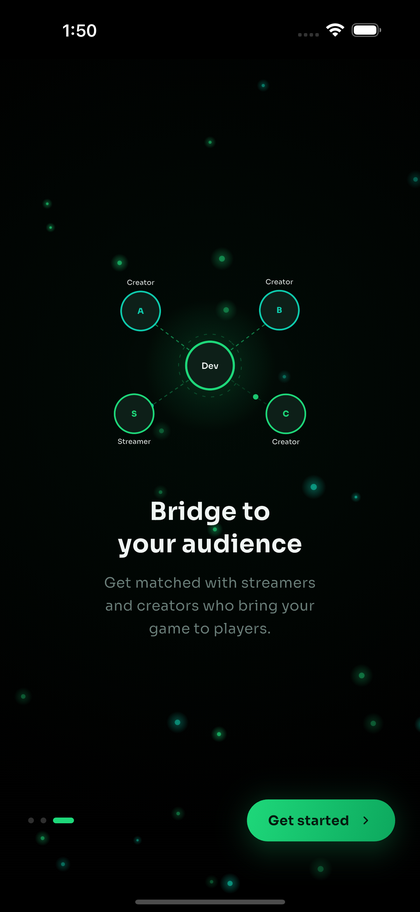
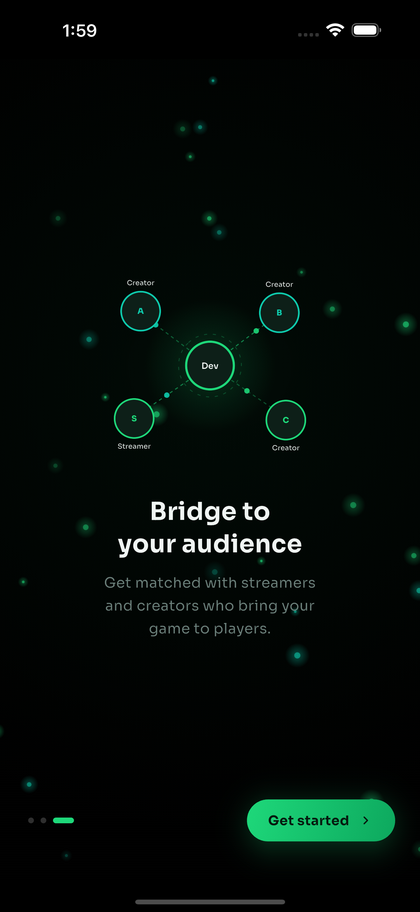
docs: show all 3 onboarding pages, trim redundant auth screenshot
- Section 1 now shows the full onboarding trio (Discover, Showcase,
  Connect) instead of skipping the middle page, refreshed from the
  same capture session as the other two for visual consistency.
- Section 2 drops the User login screenshot — it looked like a near
  duplicate of User sign up next to it — keeping one screenshot per
  role (User sign up, Developer sign up) instead.

diff --git a/README.md b/README.md
@@ -76,33 +76,33 @@ progress sharing, and creator matching. The particle field reacts to swipe
 velocity in real time: particles drift and glow brighter the faster you drag.
 
 <p align="center">
-  <img src="docs/screenshots/splash.png" alt="INDIVERSE animated splash" width="200">
-  &nbsp;&nbsp;&nbsp;&nbsp;
-  <img src="docs/screenshots/onboarding-discover.png" alt="Onboarding: find your next favorite game" width="200">
-  &nbsp;&nbsp;&nbsp;&nbsp;
-  <img src="docs/screenshots/onboarding-connect.png" alt="Onboarding: bridge to your audience" width="200">
+  <img src="docs/screenshots/splash.png" alt="INDIVERSE animated splash" width="180">
+  &nbsp;&nbsp;
+  <img src="docs/screenshots/onboarding-discover.png" alt="Onboarding: find your next favorite game" width="180">
+  &nbsp;&nbsp;
+  <img src="docs/screenshots/onboarding-showcase.png" alt="Onboarding: every build tells a story" width="180">
+  &nbsp;&nbsp;
+  <img src="docs/screenshots/onboarding-connect.png" alt="Onboarding: bridge to your audience" width="180">
 </p>
 
-<p align="center"><sub>Animated splash &nbsp;•&nbsp; Discover indie games &nbsp;•&nbsp; Bridge to your audience</sub></p>
+<p align="center"><sub>Animated splash &nbsp;•&nbsp; Discover indie games &nbsp;•&nbsp; Every build tells a story &nbsp;•&nbsp; Bridge to your audience</sub></p>
 
 ### 2. One app, two roles
 
 After onboarding, a single role-selection screen splits the experience:
 **Continue as User** for players, **Continue as Developer** for studios.
-Each leads to its own sign-in/sign-up flow, with copy and fields tailored to
-that role, and from there its own four-tab shell.
+Each leads to its own sign-up flow, with copy and fields tailored to that
+role, and from there its own four-tab shell.
 
 <p align="center">
   <img src="docs/screenshots/role-selection.png" alt="INDIVERSE role selection screen" width="190">
-  &nbsp;&nbsp;
-  <img src="docs/screenshots/auth-user-login.png" alt="User login" width="190">
   &nbsp;&nbsp;
   <img src="docs/screenshots/auth-user-signup.png" alt="User sign up" width="190">
   &nbsp;&nbsp;
   <img src="docs/screenshots/auth-developer-signup.png" alt="Developer sign up" width="190">
 </p>
 
-<p align="center"><sub>Choose a role &nbsp;•&nbsp; User login &nbsp;•&nbsp; User sign up &nbsp;•&nbsp; Developer sign up</sub></p>
+<p align="center"><sub>Choose a role &nbsp;•&nbsp; User sign up &nbsp;•&nbsp; Developer sign up</sub></p>
 
 ### 3. Player tabs — Home · Explore · Wishlist · Profile
 
